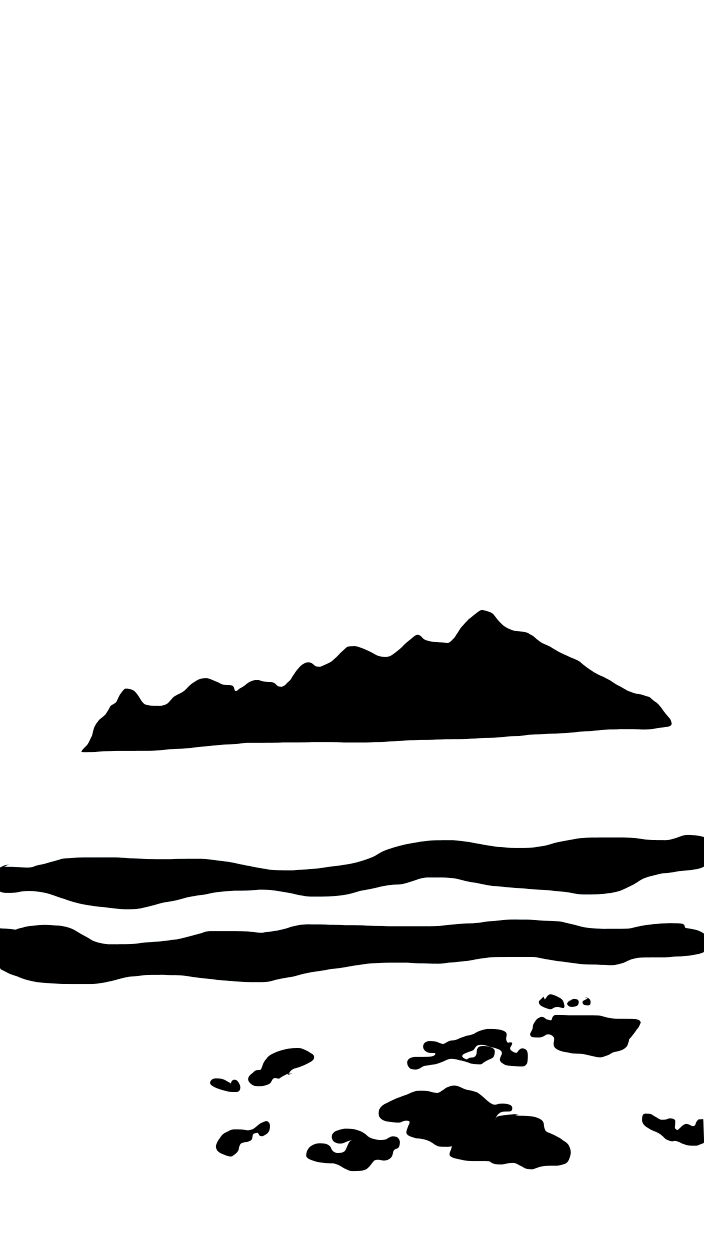
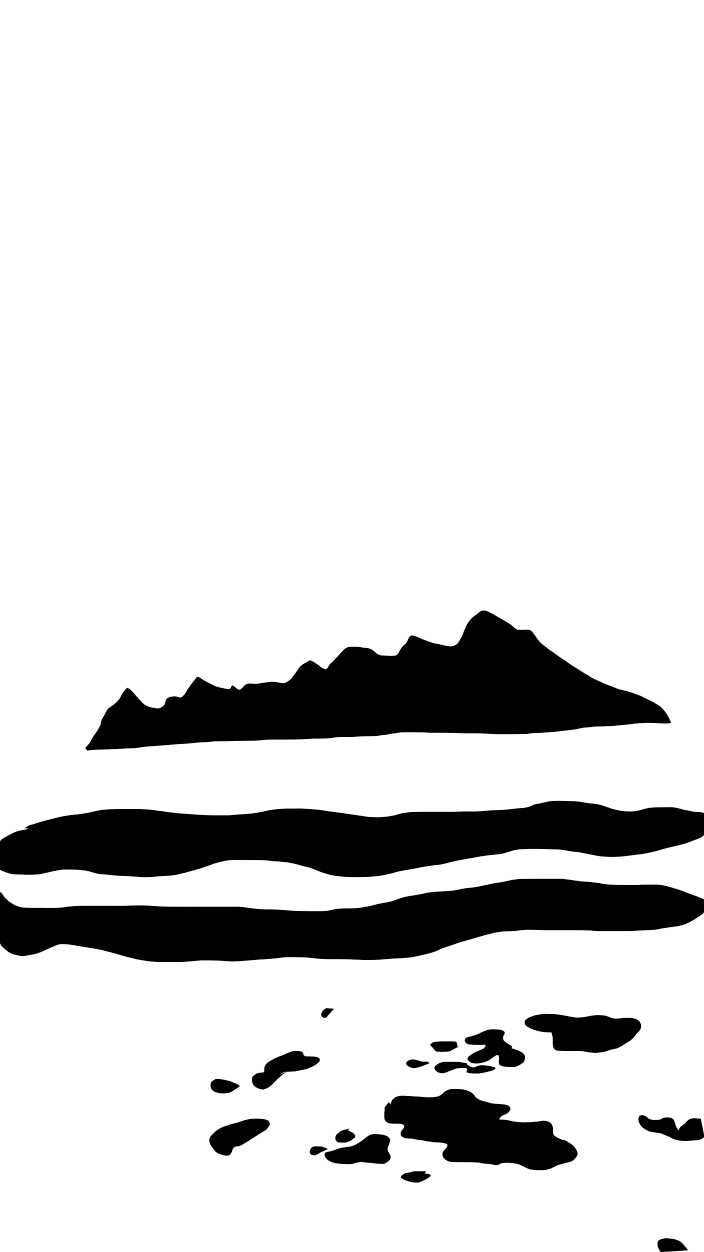
preview changes and readme changes

diff --git a/sketch.js b/sketch.js
@@ -2,8 +2,8 @@ let sourceImg=null;
 let maskImg=null;
 let renderCounter=0;
 
-let sourceFile = "input_3.jpg";
-let maskFile   = "mask_3.png";
+let sourceFile = "input_1.jpg";
+let maskFile   = "mask_1.png";
 let outputFile = "artwork_3.png";
 
 function preload() {
